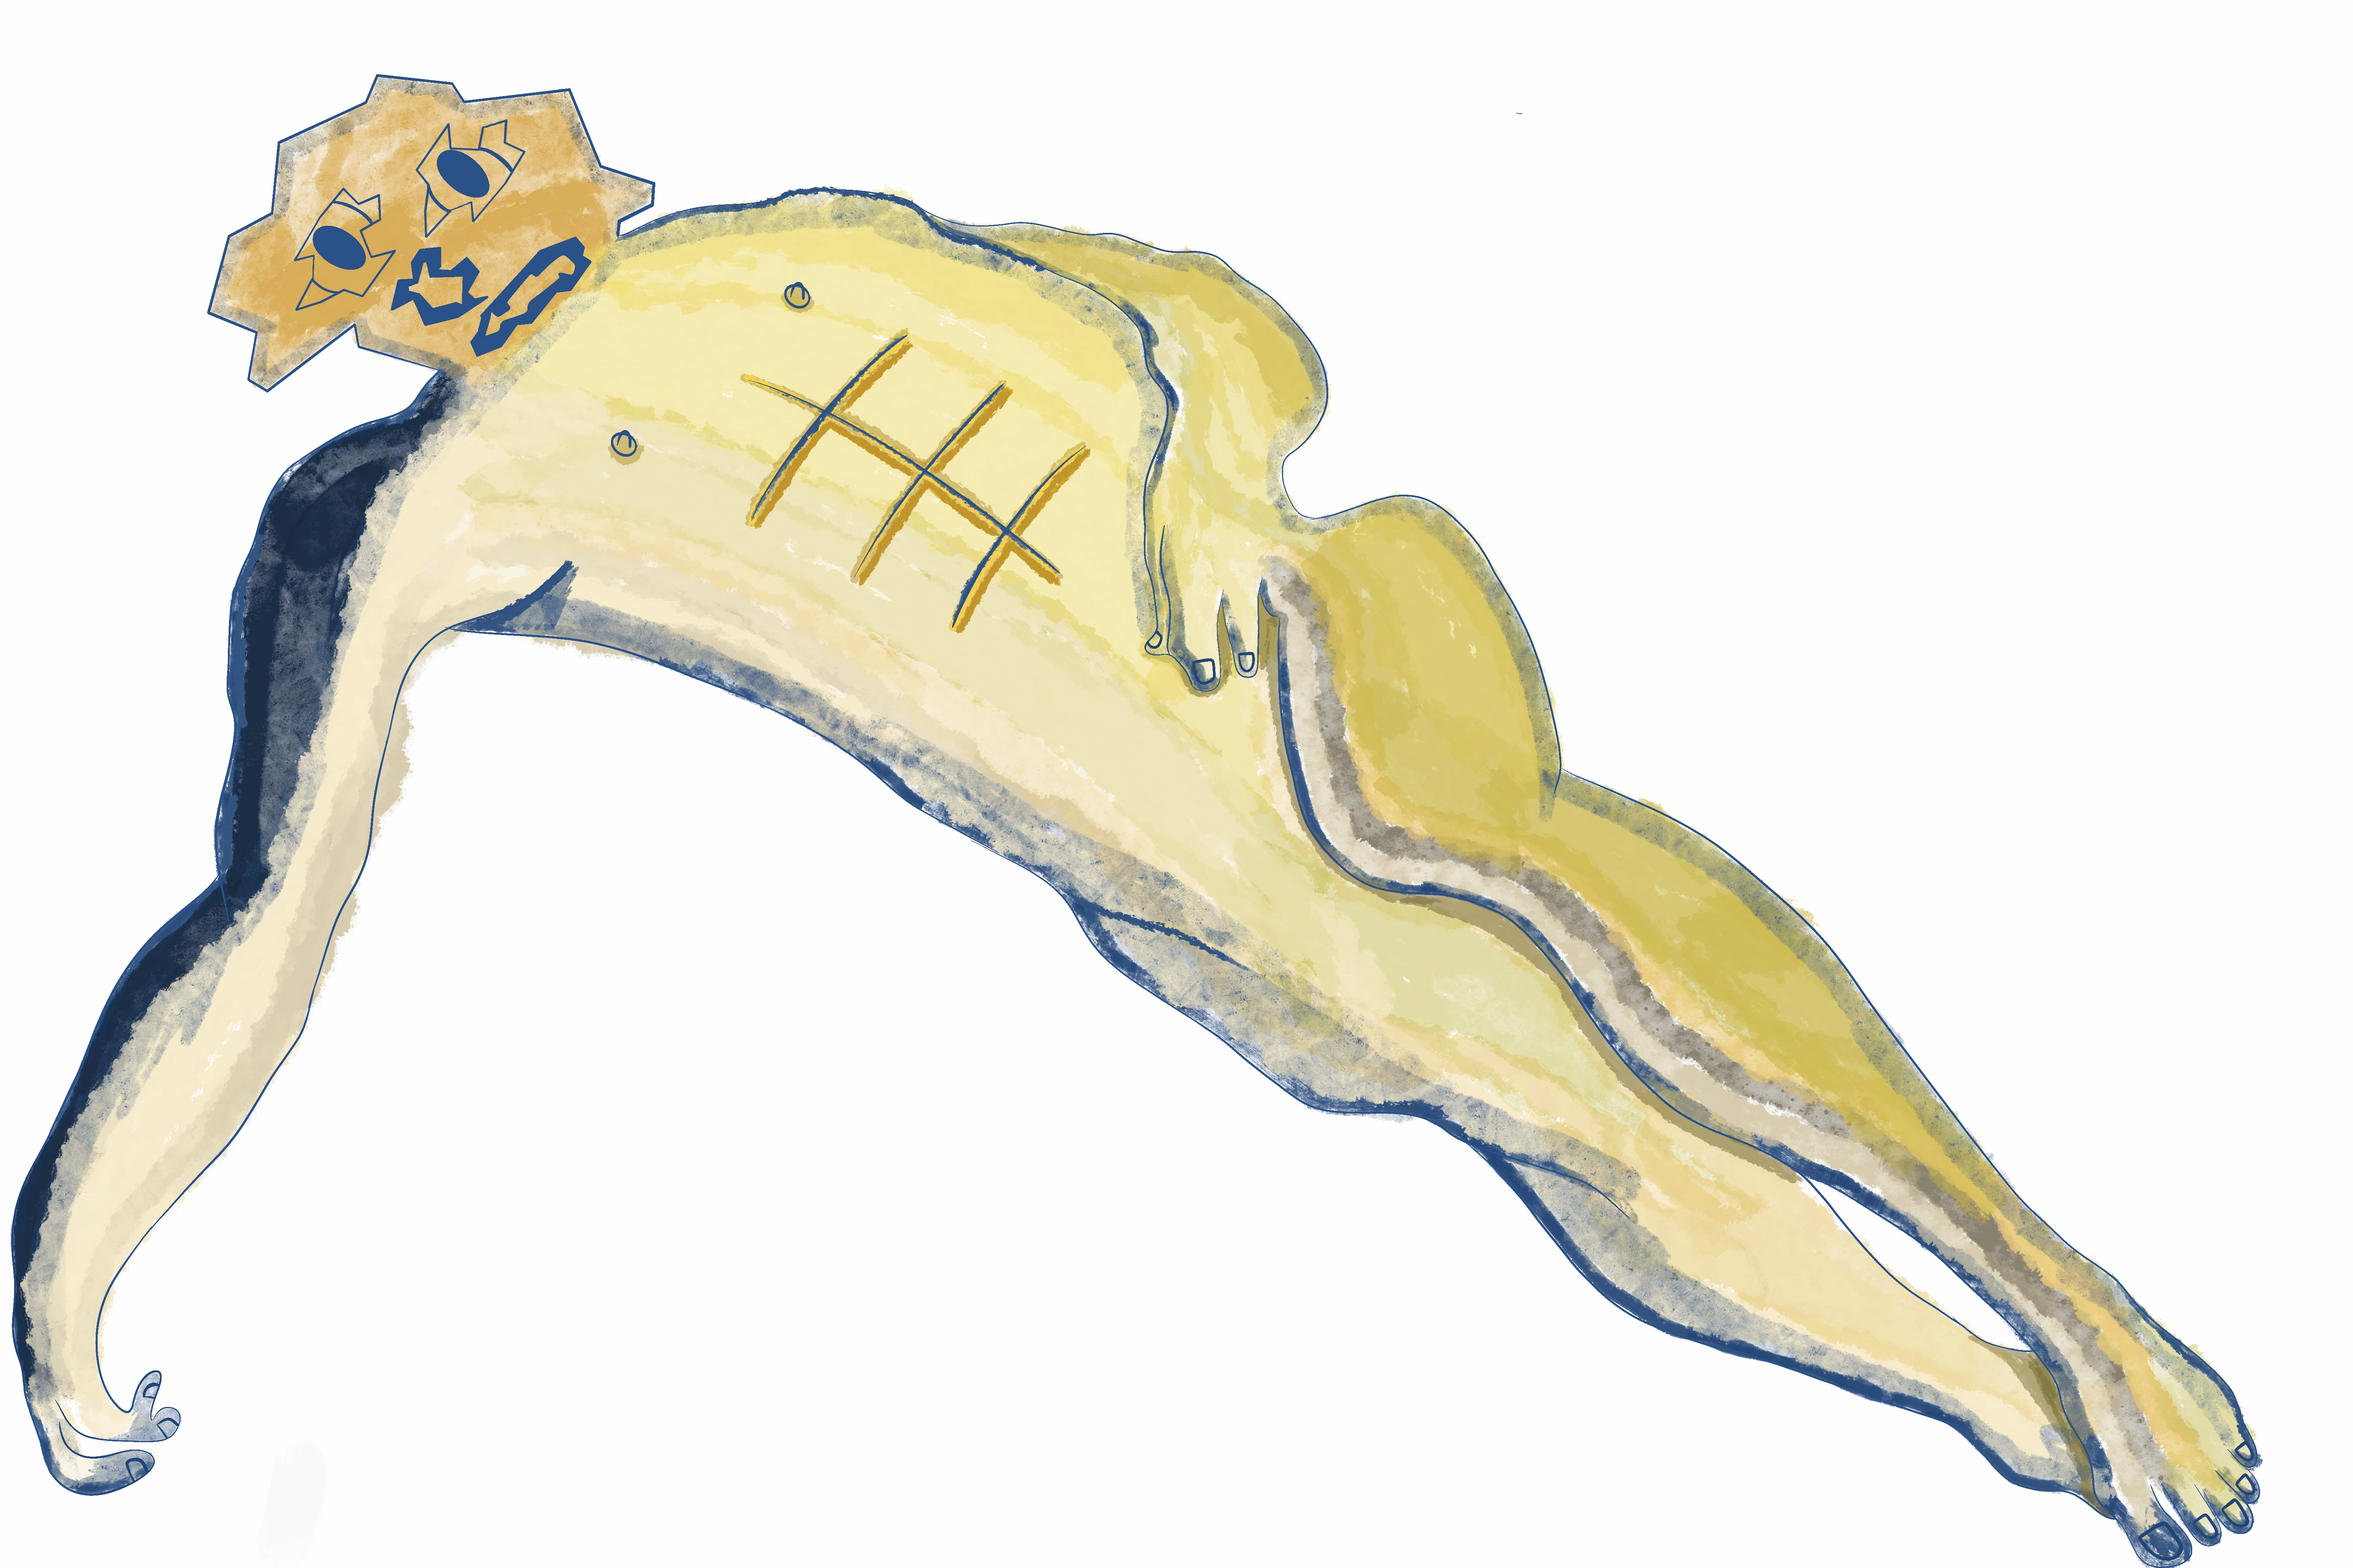
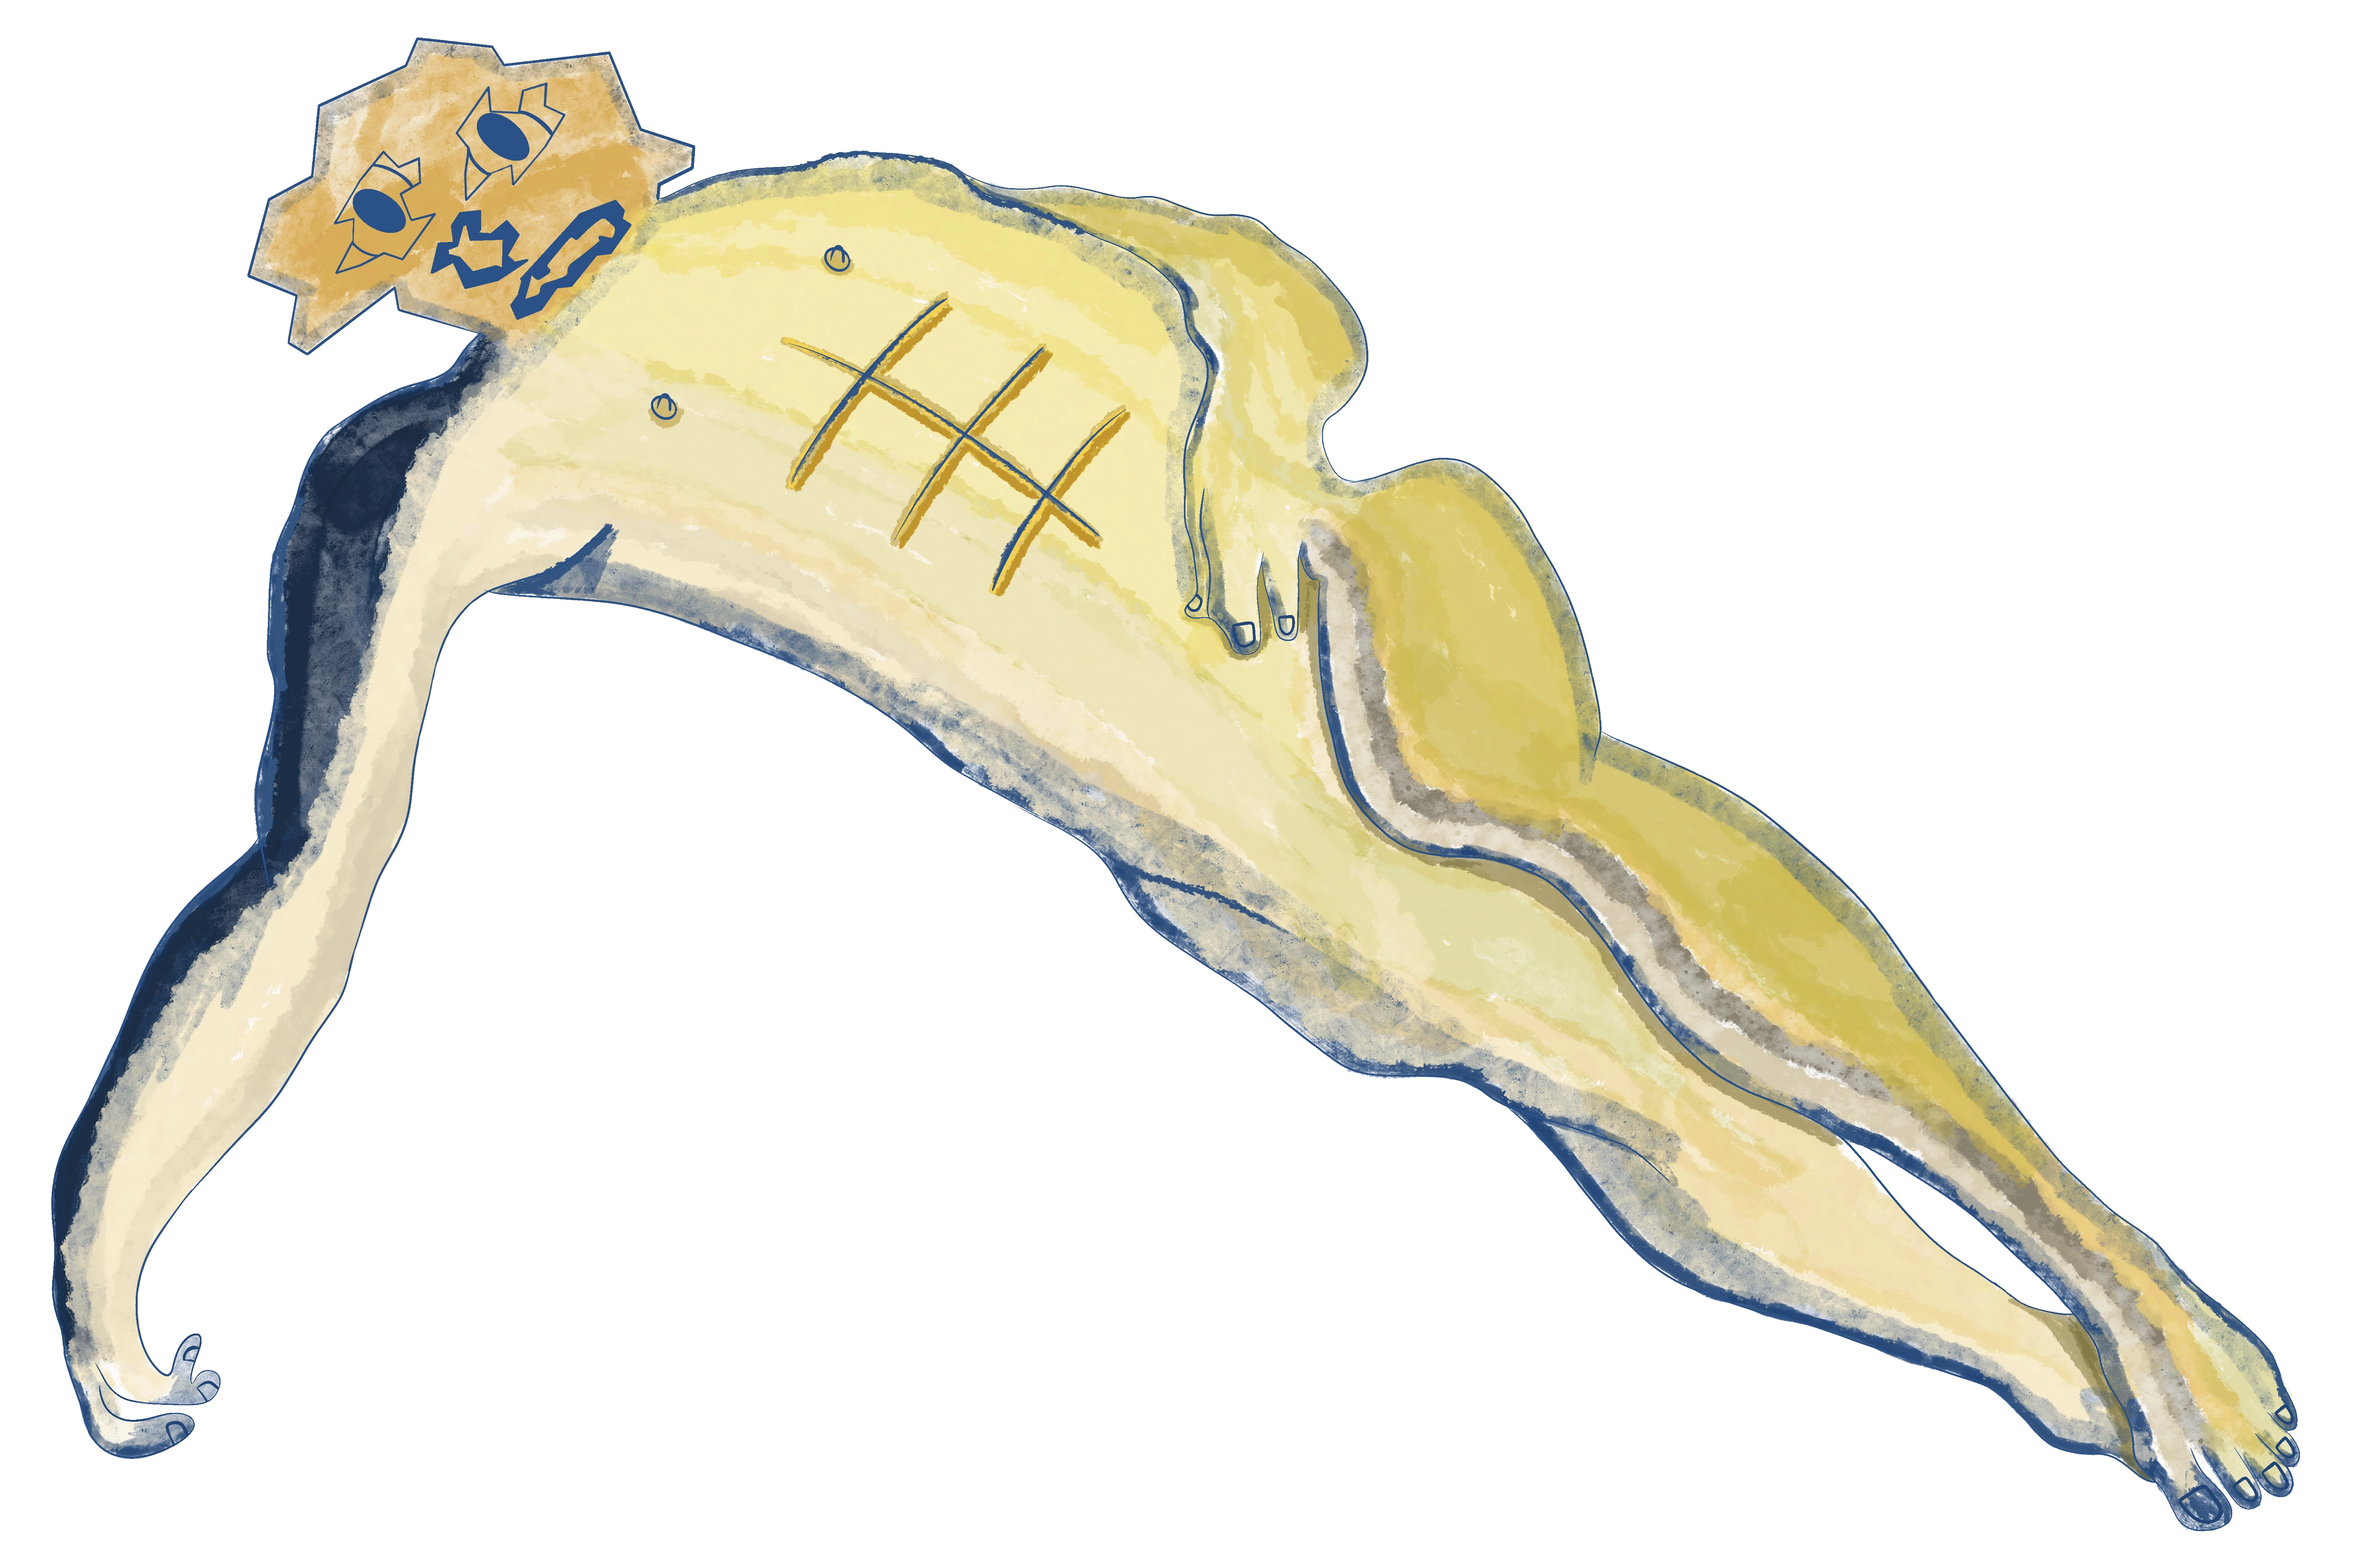
changes to be committed:

Changed region(s): [[0.0, 0.0312, 0.9973, 1.0]]

diff --git a/index.html b/index.html
@@ -268,6 +268,12 @@
           <p>Posters</p>
         </a>
 
+        <a class="project-card" href="#" data-category="coding" data-hide-in-all>
+          <figure><img src="elements/Art.png" alt="Titre du projet 4"></figure>
+          <h3>Titre du projet 4</h3>
+          <p>Posters</p>
+        </a>
+
       <!-- Graphic charts (chaque projet a plusieurs images dans data-slides) -->
       <a class="project-card" href="#" data-category="graphic" data-hide-in-all
          data-slides="elements/Aubelle - affiche 1.webp|elements/Aubelle - affiche 6.webp|elements/Aubelle - affiche 2.webp|elements/Aubelle - affiche 3.webp|elements/Aubelle - affiche 4.webp|elements/Aubelle - affiche 5.webp|elements/Aubelle - affiche 7.webp">
@@ -276,7 +282,7 @@
         <p>Posters</p>
       </a>
 
-      <!-- Attention : le lien Vimeo est dans la liste des slides, à vérifier avec some.js -->
+
       <a class="project-card" href="#" data-category="graphic" data-hide-in-all
          data-slides="elements/Bentham - affiche 3.webp|https://vimeo.com/1236774135|elements/Bentham - affiche 4.webp|elements/Bentham - affiche 5.webp|elements/Bentham - affiche 6.webp|elements/Bentham - affiche 7.webp|elements/Bentham - affiche 8.webp|elements/Bentham - affiche 9.webp|elements/Bentham - affiche 10.webp|elements/Bentham - affiche 11.webp|elements/Bentham - affiche 12.webp">
         <figure><img src="elements/Bentham - affiche 1.webp" alt="Bentham"></figure>
@@ -304,6 +310,33 @@
         <h3>Titre du projet 4</h3>
         <p>Posters</p>
       </a>
+
+      <!-- Illustrations -->
+
+      <a class="project-card" href="#" data-category="Illustration" data-hide-in-all>
+        <figure><img src="elements/Illustration seven.webp" alt="Illustration Seven"></figure>
+        <h3>Illustration Seven</h3>
+        <p>Illustrations</p>
+      </a>
+
+      <a class="project-card" href="#" data-category="Illustration" data-hide-in-all>
+        <figure><img src="elements/Illustration Five.webp" alt="Illustration Seven"></figure>
+        <h3>Illustration Seven</h3>
+        <p>Illustrations</p>
+      </a>
+
+      <div class="project-pair">
+        <a class="project-card" href="#" data-category="Illustration" data-hide-in-all>
+          <figure><img src="elements/Illustration Three.webp" alt="Titre du projet 3"></figure>
+          <h3>Titre du projet 3</h3>
+          <p>Posters</p>
+        </a>
+        <a class="project-card" href="#" data-category="Illustration" data-hide-in-all>
+          <figure><img src="elements/Illustration One.webp" alt="Titre du projet 4"></figure>
+          <h3>Titre du projet 4</h3>
+          <p>Posters</p>
+        </a>
+      </div>
 
     </div>
 
@@ -471,6 +504,40 @@
       <a class="project-card" href="#" data-category="graphic" data-hide-in-all
          data-slides="elements/Orion - affiche 1.webp|elements/Orion - affiche 2.webp|elements/Orion - affiche 3.webp|elements/Orion - affiche 4.webp">
         <figure><img src="elements/Fresco_One.avif" alt="Fresco One"></figure>
+        <h3>Titre du projet 4</h3>
+        <p>Posters</p>
+      </a>
+
+      <!-- Illustrations -->
+
+      <div class="project-pair">
+        <a class="project-card" href="#" data-category="Illustration" data-hide-in-all>
+          <figure><img src="elements/Illustration eight.webp" alt="Titre du projet 3"></figure>
+          <h3>Titre du projet 3</h3>
+          <p>Posters</p>
+        </a>
+        <a class="project-card" href="#" data-category="Illustration" data-hide-in-all>
+          <figure><img src="elements/Illustration Ten.webp" alt="Titre du projet 4"></figure>
+          <h3>Titre du projet 4</h3>
+          <p>Posters</p>
+        </a>
+      </div>
+
+      <div class="project-pair">
+        <a class="project-card" href="#" data-category="Illustration" data-hide-in-all>
+          <figure><img src="elements/Illustration nine.webp" alt="Titre du projet 3"></figure>
+          <h3>Titre du projet 3</h3>
+          <p>Posters</p>
+        </a>
+        <a class="project-card" href="#" data-category="Illustration" data-hide-in-all>
+          <figure><img src="elements/Illustration Twelve.webp" alt="Titre du projet 4"></figure>
+          <h3>Titre du projet 4</h3>
+          <p>Posters</p>
+        </a>
+      </div>
+
+      <a class="project-card" href="#" data-category="Illustration" data-hide-in-all>
+        <figure><img src="elements/Illustration Thirteen.webp" alt="Fresco One"></figure>
         <h3>Titre du projet 4</h3>
         <p>Posters</p>
       </a>

diff --git a/sheet.css b/sheet.css
@@ -434,7 +434,7 @@ body.is-3d #cursor-cube { transform: rotateX(-30deg) rotateY(45deg) scale(1.5); 
   z-index: 2;
   transition: opacity 0.25s ease, transform 0.25s ease;
 }
-.pm-arrow:hover { transform: translateY(-50%) scale(1.08); }
+
 .pm-prev { left: 32px; }
 .pm-next { right: 32px; }
 .pm-arrow.is-hidden { opacity: 0; pointer-events: none; }
